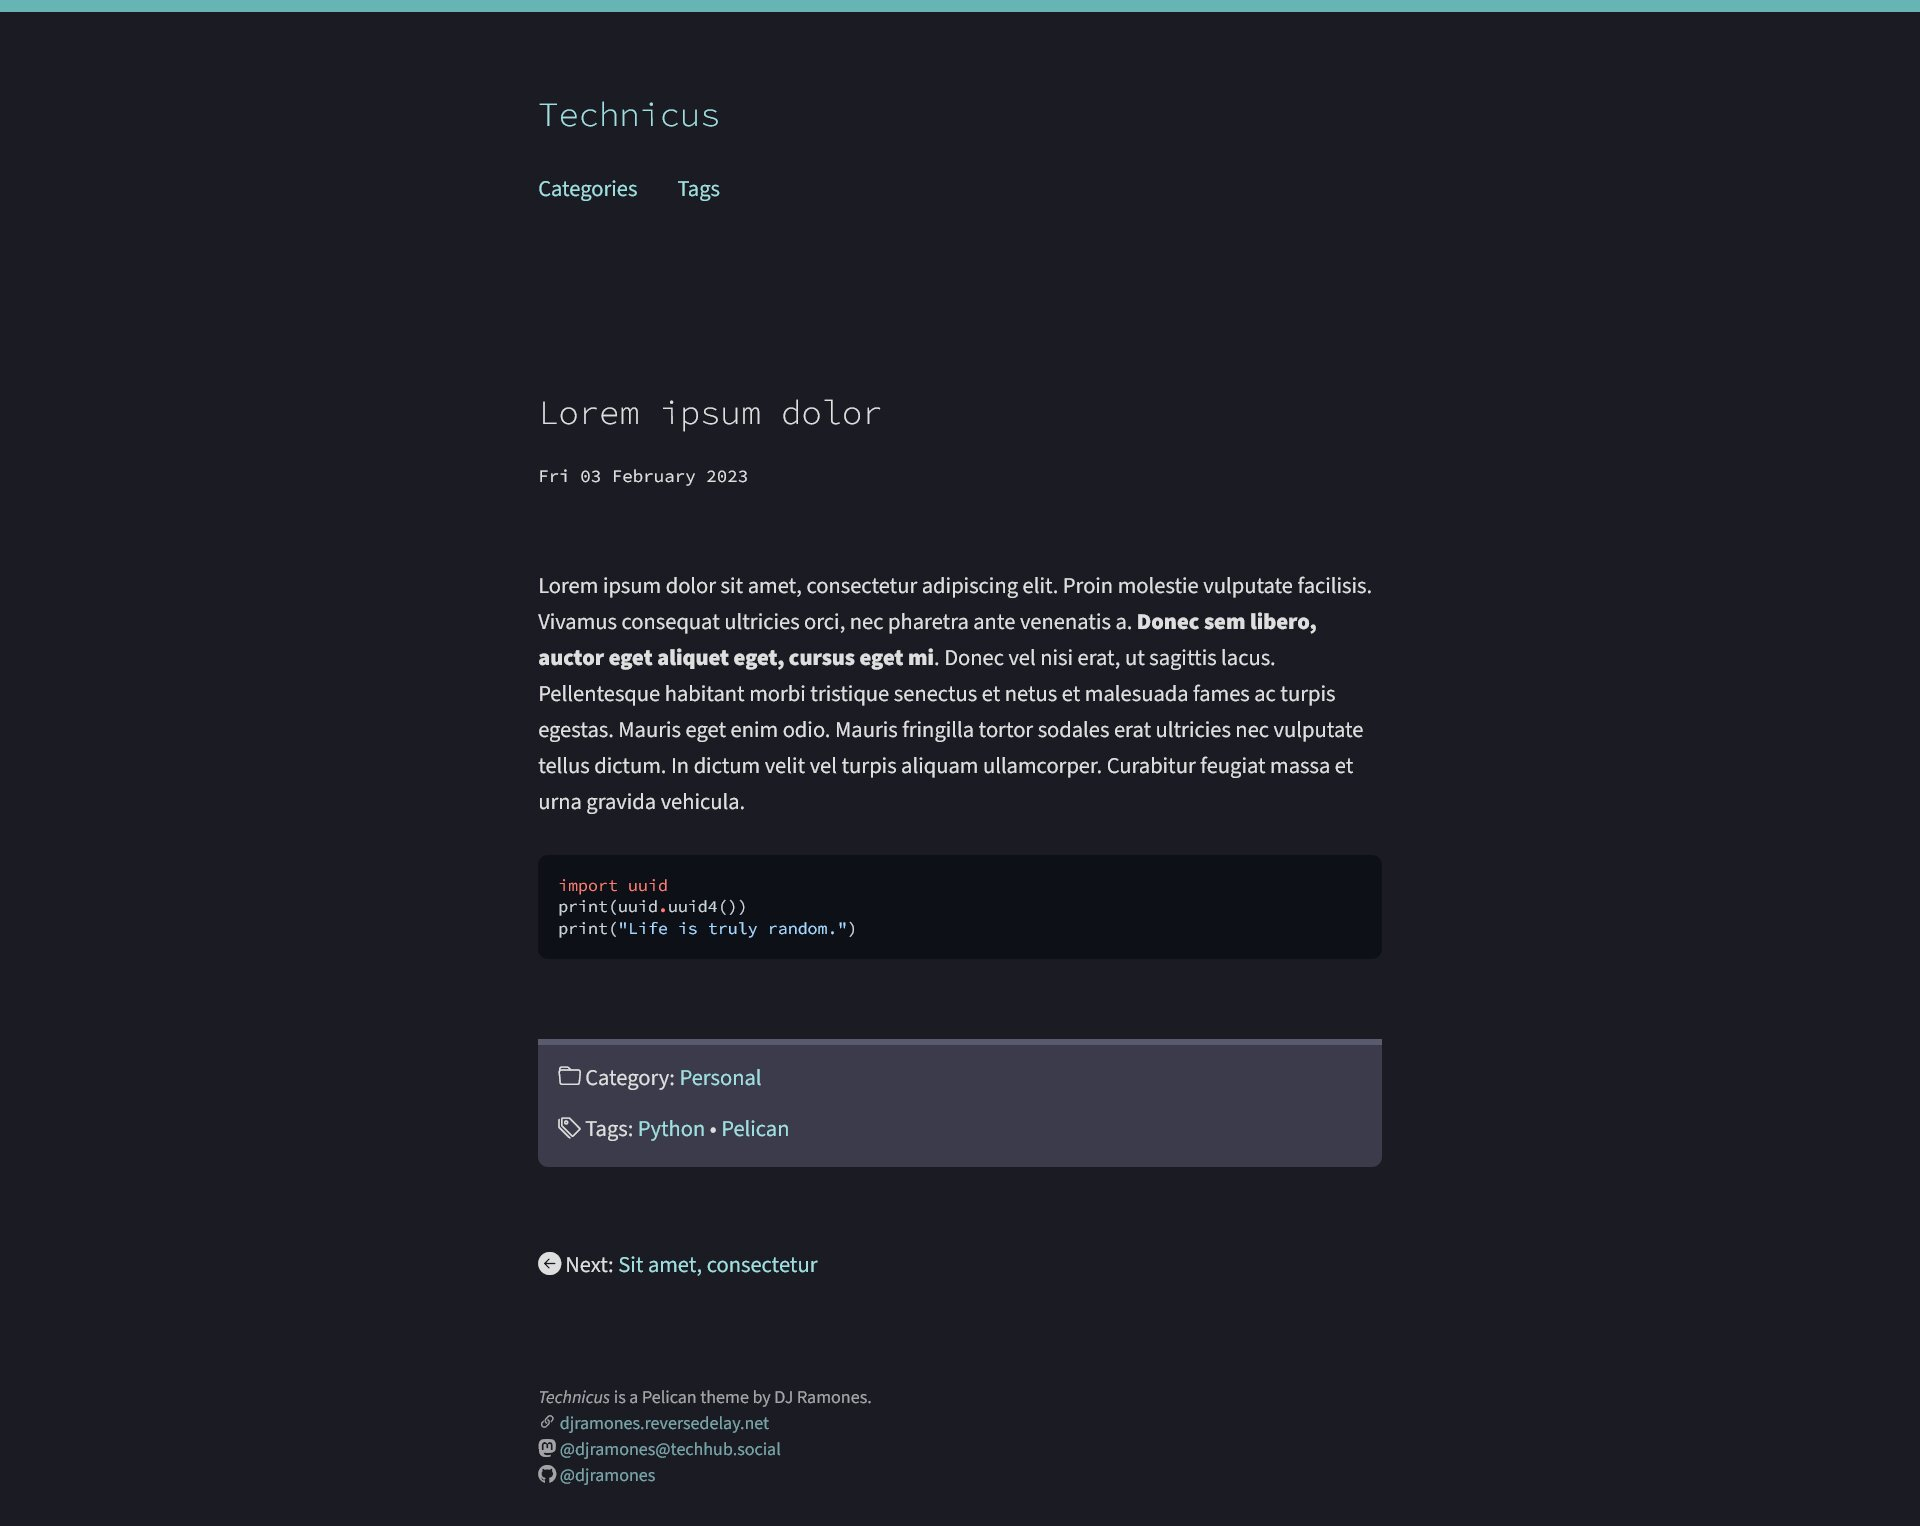
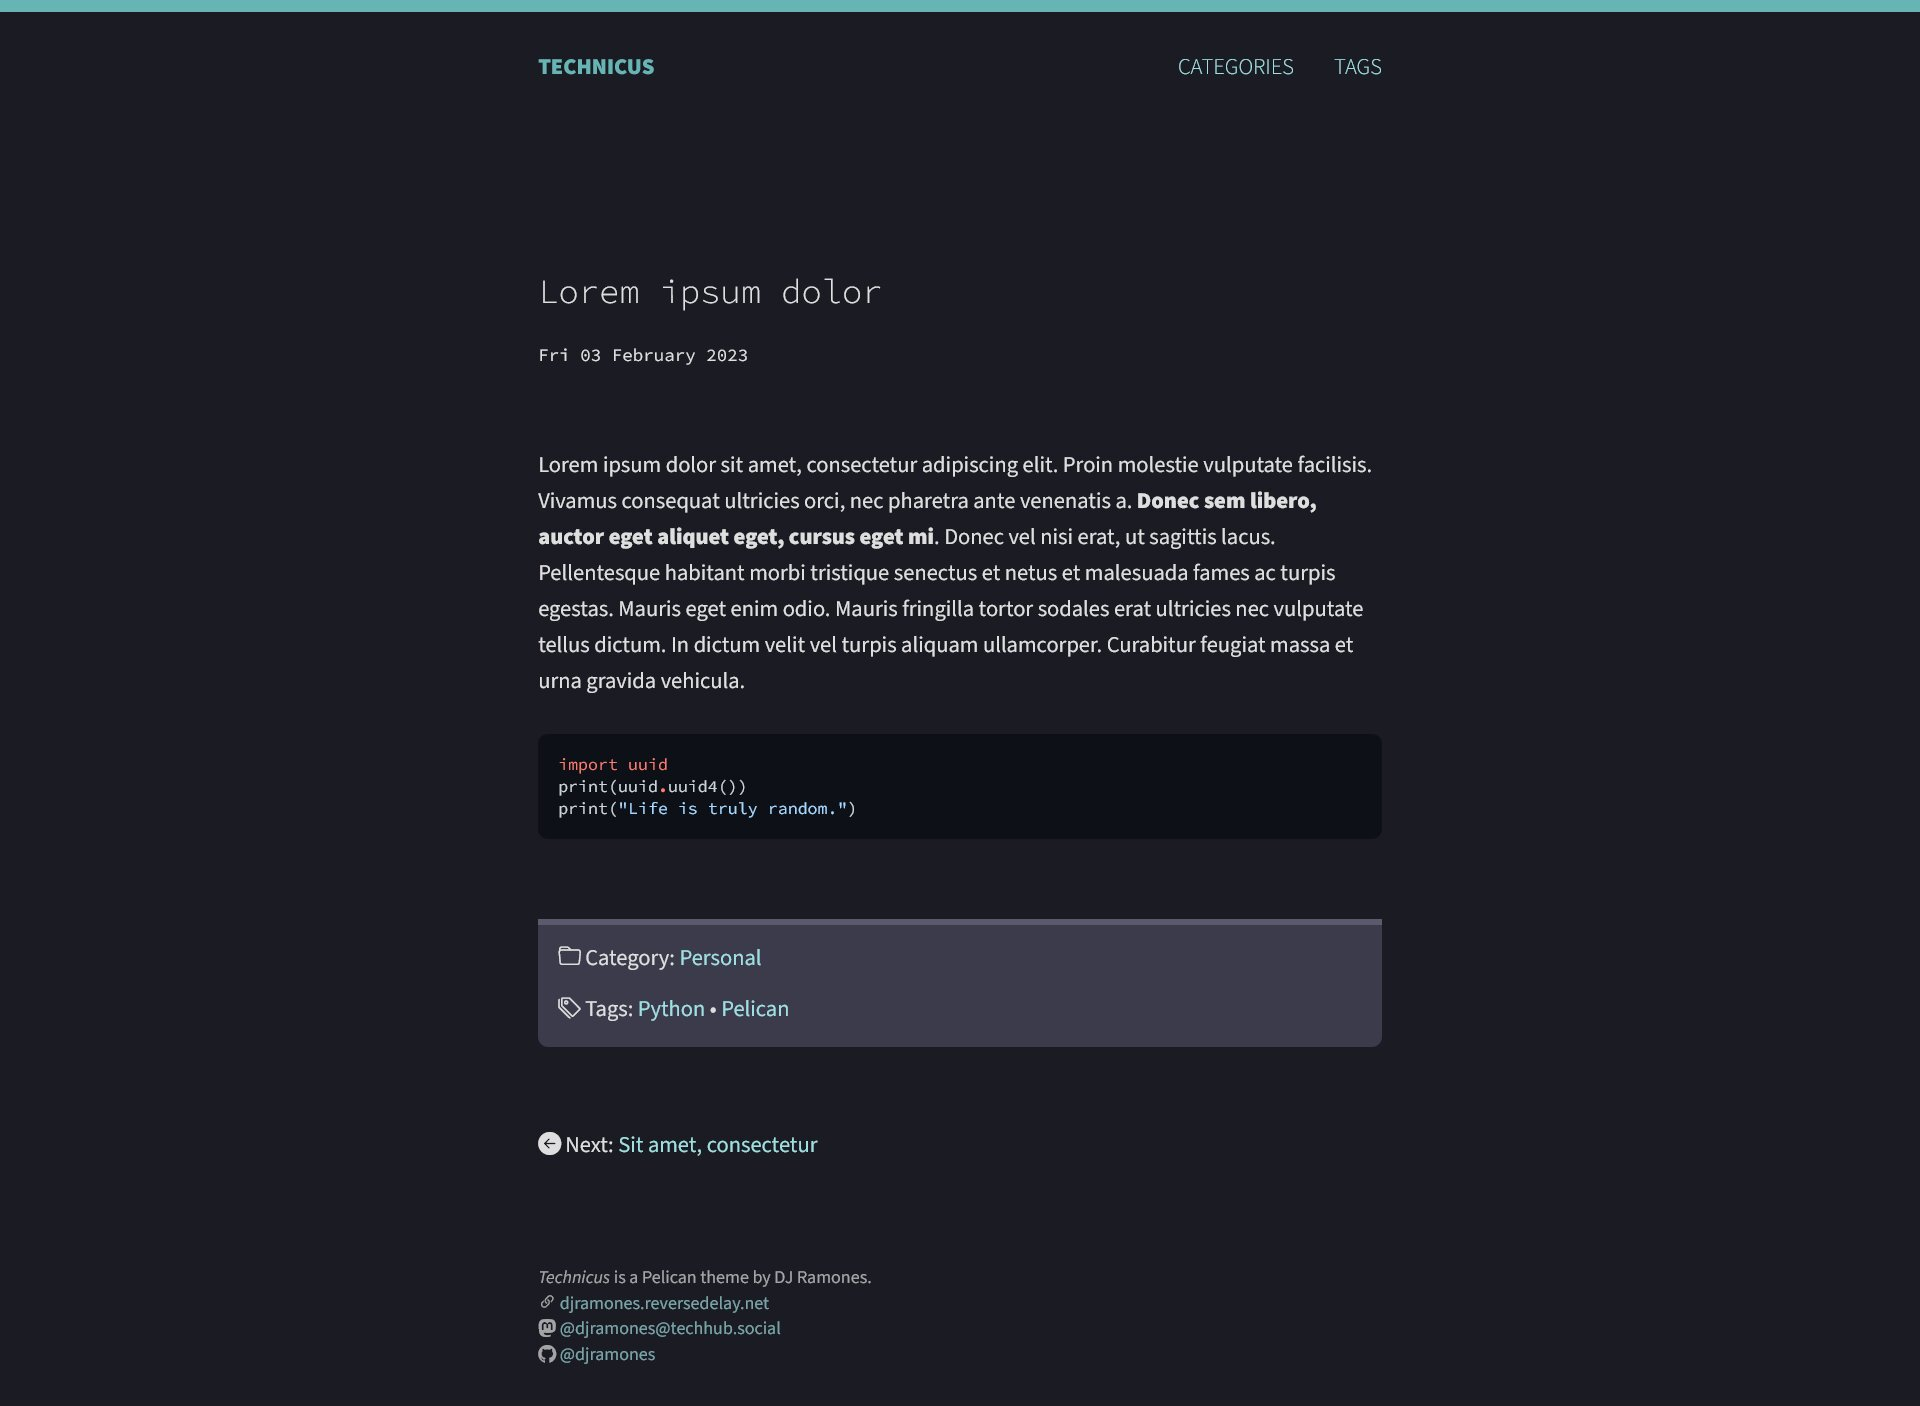
Various changes
- New header design
- Increase footer opacity to 100% on hover
- New design (pills) for all-tags page/list
- Add links on category & tag pages back to the all-categories/
  all-tags pages

diff --git a/technicus/static/css/style.css b/technicus/static/css/style.css
@@ -4,21 +4,27 @@ html {
 }
 body {
     display: grid;
-    grid-template-rows: auto auto 1fr auto;
+    grid-template-rows: auto 1fr auto;
     min-height: calc(100svh - .6rem);
     max-width: 675px;
     margin: 0 auto;
     padding: 0 1.5rem;
 }
-body > header > h1 {
-    margin: 4rem 0 0;
+body > header {
+    display: flex;
+    flex-wrap: wrap;
+    justify-content: space-between;
+    align-items: center;
+    gap: 1rem 2rem;
+    margin: 2rem 0 0;
 }
-body > nav > ul {
+body > header > h1 { margin: 0; }
+body > header > nav > ul {
     list-style: none;
     display: flex;
     flex-wrap: wrap;
     gap: .5rem 2rem;
-    margin: 2rem 0 0;
+    margin: 0;
     padding: 0;
 }
 main {
@@ -27,6 +33,9 @@ main {
 body > footer {
     margin: 0 0 2rem;
     opacity: 70%;
+}
+body > footer:hover {
+    opacity: 100%;
 }
 
 .preview-article,
@@ -66,6 +75,20 @@ body > footer {
     gap: 1.5rem;
 }
 
+.tags-all-list {
+    padding: 0;
+    display: flex;
+    flex-wrap: wrap;
+    gap: 1rem;
+    list-style-type: none;
+}
+.tags-all-list > li {
+    margin: 0;
+    padding: .1rem .8rem;
+    border: 1px solid rgb(107, 107, 112);
+    border-radius: .5rem;
+}
+
 /* Typography */
 
 html {
@@ -86,9 +109,19 @@ h1, h2, h3 {
     font-size: 1.5em;
     font-weight: 300;
 }
-body > header > h1 {
-    font-size: min(1.5em, 6.75vw);
+body > header > :is(h1, nav) {
+    font-family: 'Source Sans 3', sans-serif;
+    font-size: 1em;
+    text-transform: uppercase;
 }
+body > header > h1 { font-weight: 900; }
+body > header > h1 > :is(a:link, a:visited) {
+    color: rgb(103, 180, 180);
+}
+body > header > h1 > :is(a:hover, a:focus, a:active) {
+    color: #ffffff;
+}
+body > header > nav { font-weight: 300; }
 h4, h5, h6 {
     font-size: 1em;
     font-weight: 700;
@@ -156,9 +189,6 @@ a:link, a:visited {
 a:hover, a:focus, a:active {
     color: #ffffff;
 }
-.window-load a {
-    transition: all 0.5s ease-out;
-}
 
 /* Code blocks */
 
@@ -185,4 +215,11 @@ div.highlight {
     margin: 0 auto;
     max-width: 100%;
     height: auto;
+}
+
+/* Animations */
+
+.window-load a,
+.window-load > footer  {
+    transition: all 0.5s ease-out;
 }

diff --git a/technicus/templates/base.html b/technicus/templates/base.html
@@ -35,14 +35,14 @@
   <body>
     <header>
       <h1><a href="{{ SITEURL }}/">{{ SITENAME }}</a></h1>
+      <nav>
+        <ul>
+          {% for title, url in TECHNICUS_NAV %}
+            <li><a href="{{ url }}">{{ title }}</a></li>
+          {% endfor %}
+        </ul>
+      </nav>
     </header>
-    <nav>
-      <ul>
-        {% for title, url in TECHNICUS_NAV %}
-          <li><a href="{{ url }}">{{ title }}</a></li>
-        {% endfor %}
-      </ul>
-    </nav>
     <main>
       {% block content %}{% endblock %}
     </main>

diff --git a/technicus/templates/tags.html b/technicus/templates/tags.html
@@ -5,7 +5,7 @@
 {% block content %}
 <h2><i class="bi-tags"></i> Tags</h2>
 <div class="special-page-content">
-  <ul>
+  <ul class="tags-all-list">
   {% for tag, articles in tags|sort %}
     <li>
       <a href="{{ SITEURL }}/{{ tag.url }}">{{ tag }}</a>

diff --git a/technicus/templates/category.html b/technicus/templates/category.html
@@ -14,5 +14,8 @@
     </li>
   {% endfor %}
   </ul>
+  <p>
+    &larr; <a href="{{ SITEURL }}/{{ CATEGORIES_URL }}">View all categories</a>
+  </p>
 </div>
 {% endblock %}

diff --git a/technicus/templates/tag.html b/technicus/templates/tag.html
@@ -14,5 +14,8 @@
     </li>
   {% endfor %}
   </ul>
+  <p>
+    &larr; <a href="{{ SITEURL }}/{{ TAGS_URL }}">View all tags</a>
+  </p>
 </div>
 {% endblock %}

diff --git a/README.md b/README.md
@@ -31,6 +31,7 @@ This theme assumes that the [`pelican-neighbors`](https://github.com/pelican-plu
 
 ### Settings
 
+- **`CATEGORIES_URL`** & **`TAGS_URL`**: the URLs for the all-categories and all-tags templates, respectively. These are required for the links on the individual category/tag templates back to the all-categories/tags pages. Do not include the starting slash.
 - **`TECHNICUS_FAVICON`** (*optional*): the path to the site favicon relative to `SITEURL`, including the starting slash. For example, `TECHNICUS_FAVICON = '/images/favicon.png'`.
 - **`TECHNICUS_SITE_META_DESC`** (*optional*): the description string to be set in the Open Graph and `<meta name="description">` tags for the home (index) page.
 - **`TECHNICUS_DEFAULT_OG_IMAGE`**: the image to be used by default for Open Graph (i.e., social sharing previews). This must be set to the path of an image file relative to `SITEURL`, including the starting slash.
